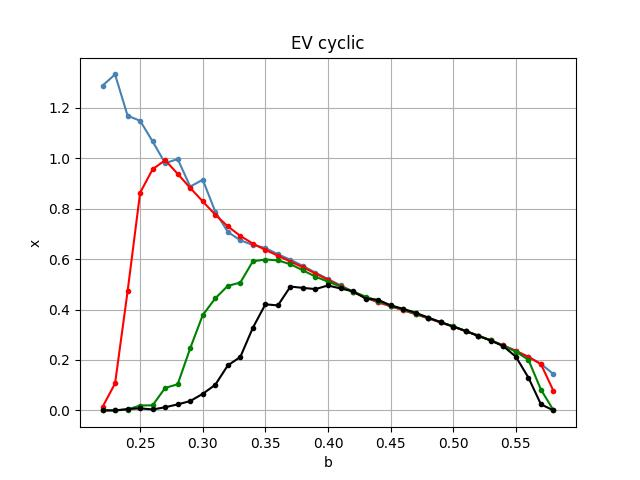
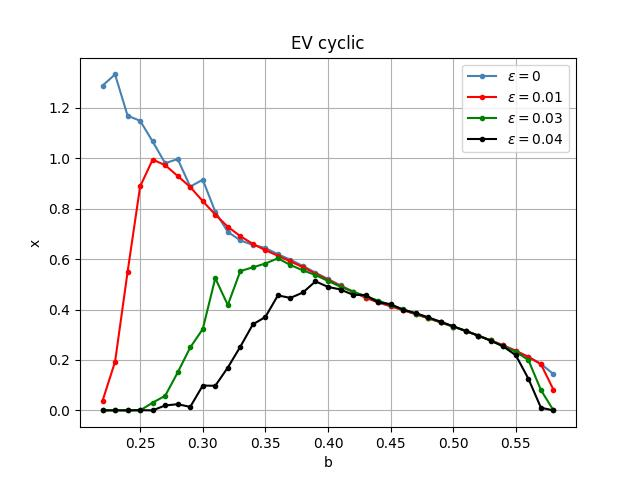
Upd

diff --git a/latex/stochastic/texfiles/time_series.tex b/latex/stochastic/texfiles/time_series.tex
@@ -38,17 +38,11 @@
 
     Все варианты рассматриваются с одной и той же интенсивностью шума \(\varepsilon = 0.004\). 
         
-    Вид шума влияет на величину разброса значений численности популяции. \comment{Дисперсия?}. И если в модели (\ref{origin}) численность популяции стабилизировалась и переставала хоть сколько-нибудь меняться, то в моделях (\ref{alpha_chaos}), (\ref{beta_chaos}) и (\ref{additive_chaos}) численность постоянно всегда колеблется. Эти колебания происходят в рамках некоторого коридора значений. Численность популяции не растет и не уменьшается на какую-то значительную величину. Но такое поведение наблюдается не всегда.
-
-    \comment{малый шум будет оказывать незначительное влияние, а большой - огромное.}
-
-    \comment{Можно взять оригинальный временной ряд и на него сверху наложить временной ряд с шумом.}
+    Вид шума влияет на величину разброса значений численности популяции. \comment{Дисперсия?}. И если в модели (\ref{origin}) численность популяции стабилизировалась и переставала хоть сколько-нибудь меняться, то в моделях (\ref{alpha_chaos}), (\ref{beta_chaos}) и (\ref{additive_chaos}) численность постоянно колеблется. Эти колебания происходят в рамках некоторого интервала значений. Численность популяции не растет и не уменьшается на какую-то значительную величину. Но такое поведение наблюдается не всегда.
 
     \comment{Хорошая фраза: индуцированный шумом переход}
 
-    Для демонстрации другого возможного поведения увеличим интенсивность шума. Теперь \(\varepsilon = 0.04\). На графике \ref{time_series_x_0_06_a_1_b_0_56_beta_chaos_epsilon_0_04_fall} видна ситуация, когда шум оказал негативное влияние на численность популяции. Но все не так просто. Если алгоритм, который просчитывает нашу модель, запустить еще раз, то получаем ситуацию, когда популяция выживала на протяжении анализируемого интервала времени. Данный пример проиллюстрирован на картинке \ref{time_series_x_0_06_a_1_b_0_56_beta_chaos_epsilon_0_04_alive}. Аналогичные эффекты можно наблюдать и при других видах шума.
-
-    \comment{Примерно в \(t = 50\) обе популяции были близки к вымиранию, но одна выжила, а вторая нет.}
+    Для демонстрации другого возможного поведения увеличим интенсивность шума до \(\varepsilon = 0.04\). На графике \ref{time_series_x_0_06_a_1_b_0_56_beta_chaos_epsilon_0_04_fall} видна ситуация, когда в одном эксперименте из-за шума траектория модели ушла в ноль. В другом эксперименте с точно такими же вводными параметрами получаем ситуацию, когда траектория не ушла в ноль, т.е. популяция выживала на протяжении анализируемого интервала времени. Данный пример изображен на картинке \ref{time_series_x_0_06_a_1_b_0_56_beta_chaos_epsilon_0_04_alive}. Аналогичные эффекты наблюдаются при других видах шума.
 
     \begin{figure}
         \centering
@@ -68,6 +62,4 @@
         \label{time_series_x_0_06_a_1_b_0_56_beta_chaos_epsilon_0_04_alive}
     \end{figure}
 
-    При добавлении в модель случайных событий ее поведение становится непредсказуемым. Одно незначительное изменение может кардинально повлиять на ход развития событий. 
-
-    \comment{рассматривать как в том семестре все возможные варианты поведения системы в зависимости от начальной точки думаю не надо и так все понятно.}
+    При добавлении в модель случайных событий ее поведение становится непредсказуемым. Одно незначительное изменение может кардинально повлиять на ход развития событий.

diff --git a/latex/stochastic/texfiles/bifurcation.tex b/latex/stochastic/texfiles/bifurcation.tex
@@ -1,12 +1,8 @@
 \subsection{Бифуркационные диаграммы}
 
-    Перейдем к рассмотрению графиков бифуркации моделей с разными видами шумов. На рисунках \ref{bifurcation_x_0_2_a_1_compare_beta_noise}, \ref{bifurcation_x_0_2_a_1_compare_alpha_noise} и \ref{bifurcation_x_0_2_a_1_compare_additional_noise} представлены графики бифуркационных диаграмм для моделей с \(\beta\)-шумом, \(\alpha\)-шумом и аддитивным шумом при значении параметра \(\beta = 1\). Эти графики внешне напоминаюты детерминированный случай \ref{bifurcation_x_0_2_a_1_compare_no_noise}. На каждом графике, также как и в исходной модели, существует учсток равновесия, участки с циклами и участок с хаотическим поведенеим системы. От вида и интенсивности шума зависит то, насколько сильно отличается график с шумом от графика исходной модели \ref{origin}. 
+    Перейдем к рассмотрению графиков бифуркации моделей с разными видами шумов. На рисунках \ref{bifurcation_x_0_2_a_1_compare_alpha_noise}, \ref{bifurcation_x_0_2_a_1_compare_beta_noise} и \ref{bifurcation_x_0_2_a_1_compare_additional_noise} представлены графики бифуркационных диаграмм для моделей \ref{alpha_chaos}, \ref{beta_chaos} и \ref{additive_chaos}, в которых значение параметра \(\beta = 1\). Графики внешне напоминают детерминированный случай \ref{bifurcation_x_0_2_a_1_compare_no_noise}. На каждом графике, также как и в исходной модели, существует учсток равновесия, участки с циклами и участок с хаотическим поведенеим системы. От вида и интенсивности шума зависит то, насколько сильно отличается график с шумом от графика исходной модели \ref{origin}. 
 
-    Самое сильное влияние на значения оказывает \(\beta\)-шум. А, например, \(\alpha\)-шум оказывает незначительное влияние и график очень похож на детерминированный случай. Данные выводы также подтверждаются результатами, которые мы получили при построении временных рядов.
-
-    \comment{Не понятно про что тут писать. Вроде про все сказали в том семестре.}
-
-    \comment{Так же сделать 4 маленьких картинки?}
+    Можно заметить, что самое сильное влияние на значения оказывает \(\beta\)-шум. А, например, \(\alpha\)-шум оказывает незначительное влияние и диаграмма очень похожа на диаграмму детерминированного случая. Данные выводы также подтверждаются результатами, которые мы получили при построении временных рядов.
 
     \begin{figure}
         \centering

diff --git a/latex/stochastic/texfiles/expected_value.tex b/latex/stochastic/texfiles/expected_value.tex
@@ -1,26 +1,17 @@
 \subsection{Матожидание}
 
-    Давайте рассмотрим график матожидания \ref{EV} для модели с \(\beta\)-шумом, которая представлена формулой \ref{beta_chaos}. Мы видим, что на графике есть "выбросы" значений, например, такое можно увидеть на черной линии в точках \(\beta = 0.38\) и \(\beta = 0.45\). Для того, чтобы избавиться от таких выбросов и получить общую картинку происходящего далее будем анализировать усредненные матожидания.
+    \comment{параметричесикй интервал выживаемости при увеличении шума уменьшается}
 
-    \comment{Думаю расписывать как построили усредненное матожидание не надо.}
-        
-    \begin{figure}
-        \centering
-        \includegraphics[width=\textwidth]{stochastic/images/EV.jpg}
-        
-        \captionsetup{justification=centering}
-        \caption{Матожидание}
-        \label{EV}
-    \end{figure}
+    На графике \ref{EV_cyclic} видно, что 
 
-    Перейдем к рассмотрению графика \ref{EV_cyclic} усредненных значений математического ожидния. Мы видим, что нам удалось избавиться от "выборосов", описанных выше. При этом можно оценить \comment{что происходит на участкх, которые уходят вниз.}
+    Перейдем к рассмотрению графика \ref{EV_cyclic} усредненных значений математического ожидния, полученных из нескольких экспериментов. 
         
     \begin{figure}
         \centering
         \includegraphics[width=\textwidth]{stochastic/images/EV_cyclic.jpg}
         
         \captionsetup{justification=centering}
-        \caption{Циклическое матожидание}
+        \caption{Матожидание}
         \label{EV_cyclic}
     \end{figure}
 

diff --git a/grpah/runner.py b/grpah/runner.py
@@ -716,10 +716,11 @@ def run_cyclic_mean():
 
     (Plotter()
         ._setup('b', 'x', 'linear', 'major', 'EV cyclic')
-        .plot_line(source0, '.', colors.steel_blue, 'Original')
+        .plot_line(source0, '.', colors.steel_blue, '$\\varepsilon = 0$')
         .plot_line(source1, '.', colors.red, '$\\varepsilon = 0.01$')
         .plot_line(source2, '.', colors.green, '$\\varepsilon = 0.03$')
         .plot_line(source3, '.', colors.black, '$\\varepsilon = 0.04$')
+        .legend()
         .show_last())
 
 
@@ -1709,7 +1710,7 @@ def critical_intensity_beta_noise():
     (Plotter()
         ._setup("$\\beta$", '$\\varepsilon^*$', 'linear', 'major', 'Epsilon for $\\beta$-noise')
         .scatter(xR, yR, '.', 'red')
-        .scatter(xS, yS, '.', 'navy')
+        # .scatter(xS, yS, '.', 'navy')
         .show())
 
     plotter = (Plotter()

diff --git a/latex/stochastic/texfiles/metrics.tex b/latex/stochastic/texfiles/metrics.tex
@@ -11,5 +11,3 @@
     Метрика Махаланобис показывает расстояние между двумя точками без учета того, что в модели \comment{что-то есть...}
 
     \comment{Ну и по традиции вставь картинки}
-
-    \comment{Форматирование текста. Справа творится какая-то дчиь} 

diff --git a/latex/stochastic/texfiles/stochastic_sensetivity_function.tex b/latex/stochastic/texfiles/stochastic_sensetivity_function.tex
@@ -17,7 +17,7 @@
 
     \begin{figure}
         \centering
-        \subfloat[Общий вид ФСЧ]{
+        \subfloat[Общий вид бифуркационной диаграммы с ФСЧ]{
             \includegraphics[width=0.7\textwidth]{stochastic/images/bifurcation_x_0_2_a_1_beta_noise_fss.jpg}
             \label{bifurcation_x_0_2_a_1_beta_chaos_fss}
         }

diff --git a/grpah/main.py b/grpah/main.py
@@ -82,6 +82,6 @@ if __name__ == "__main__":
     # run_machalanobis_alpha_noise()
     # run_machalanobis_additive_noise()
 
-    critical_intensity_beta_noise()
-    critical_intensity_alpha_noise()
+    # critical_intensity_beta_noise()
+    # critical_intensity_alpha_noise()
     # critical_intensity_additive_noise()
